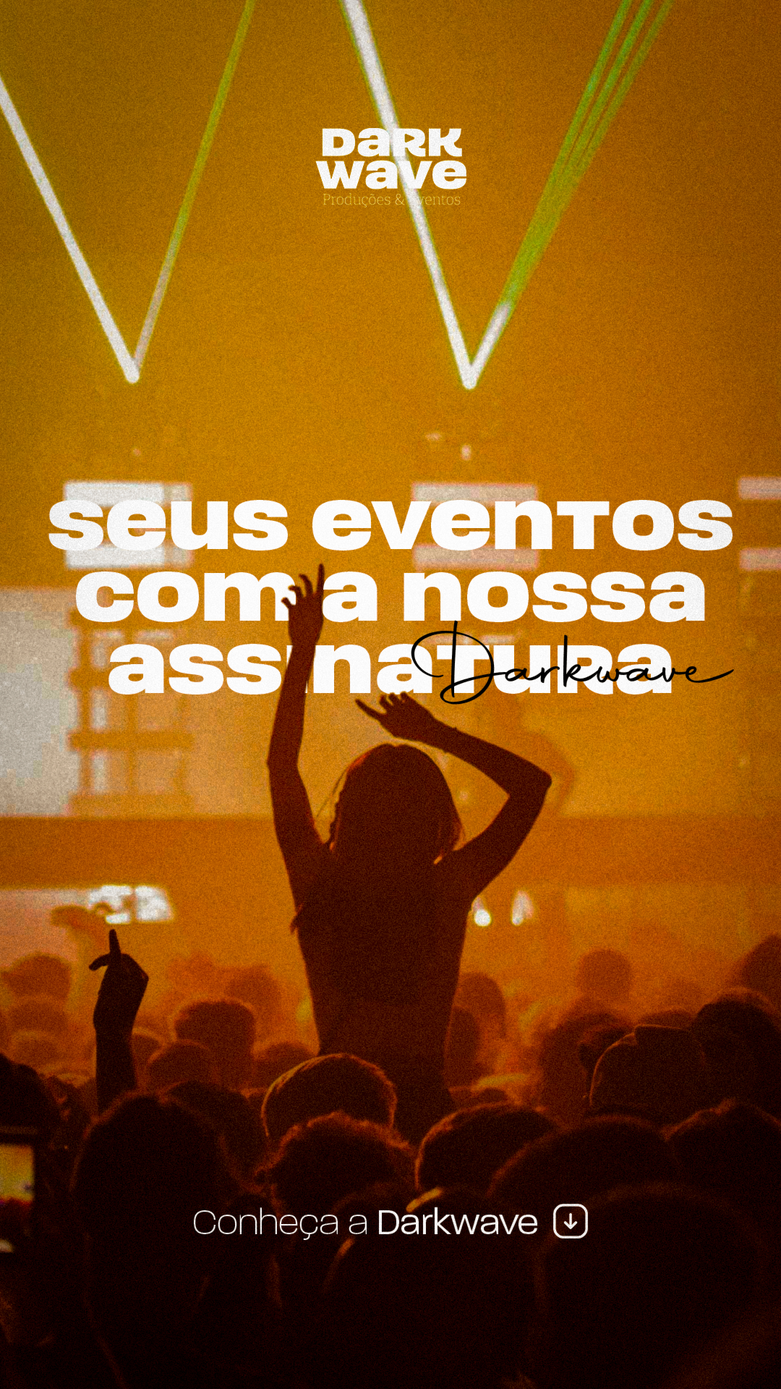
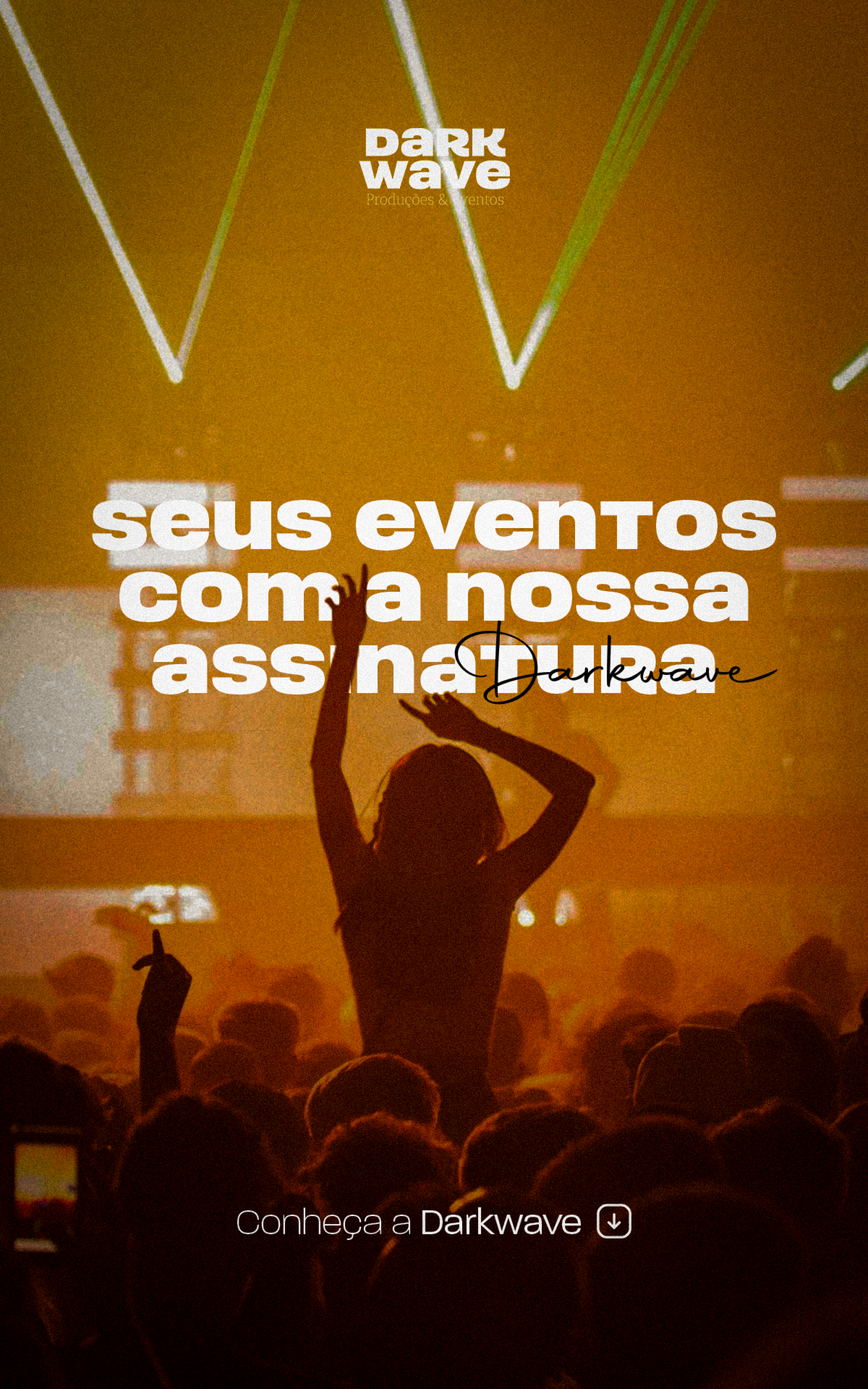
finalizado
Terminei de ajustar todos os conteúdos, afim de conferir como vai ficar no telefone

diff --git a/styles.css b/styles.css
@@ -54,11 +54,14 @@ li {
 }
 
 a {
-  width: 28vw;
+  width: auto;
   align-content: center;
   text-align: left;
 }
 
+.space {
+  margin-right: 10px;
+}
 nav{
   display: flex;
   flex-direction: column;
@@ -68,21 +71,22 @@ a:hover {
   cursor: pointer;
 }
 .nav-break1 {
-  justify-content: space-between;
+  justify-content: center;
   display: flex;
   width: 100%;
-  justify-content: center;
 }
 .nav-break{
-  justify-content:space-evenly;
+  justify-content:center;
   display: flex;
   width: 100%;
 }
+
 .number {
   width: auto;
   font-size: 200px;
   font-weight: 900;
   height: auto;
+  margin-right: 2%;
   font-family: "Paralucent-Bold";
 }
 
@@ -96,11 +100,16 @@ body {
   justify-content: center;
   align-items: center;
   padding: 20px;
+  overflow-x: hidden;
+  margin: 0;
 }
 
 img {
-  margin: 2%;
   justify-items: center;
+}
+
+.contato {
+ margin-right: 40px;
 }
 
 img:hover {
@@ -217,14 +226,11 @@ p {
   }
   .showcase {
     background: url("imagens/showcase-mobile.png") no-repeat center center/cover;
-    position: absolute;
     top: 0;
     margin: 0;
     padding: 0;
+    height: 100%;
     left: 0;
-    width: 100%;
-    height: 100vh;
-    object-fit: cover;
     z-index: 5;
   }
 
@@ -232,24 +238,25 @@ p {
     background-color: rgba(0, 0, 0);
     color: white;
     padding: 50px;
+    margin-bottom: 4%;
     border-radius: 80px;
     text-align: center;
     max-width: 100%;
     width: 100%;
     margin-top: 100vh;
-    height: (100% - 1130px);
+   
   }
-  
+
   .number {
     width: auto;
-    font-size: 400%;
+    font-size: 200%;
     font-weight: 900;
     height: auto;
     font-family: "Paralucent-Bold";
   }
 
   li {
-    font-size: 40%;
+    font-size: 60%;
   }
 
   .about {
@@ -265,7 +272,7 @@ p {
   }
 
   .fade-box {
-    padding: 20px;
+    padding: 10px;
     border-radius: 40px;
     font-size: 18px;
   }
@@ -289,7 +296,7 @@ p {
   }
 
   .box1 h1, .box2 h1, .box3 h1 {
-    font-size: 100%;
+    font-size: 80%;
   }
 
   .box1 h5, .box2 h5 {

diff --git a/index.html b/index.html
@@ -24,14 +24,12 @@
                 <li><a onclick="scrollar(1)">O que é a </br>DarkWave?</a></li>
                 <a class="number" onclick="scrollar(2)">02</a>
                 <li><a onclick="scrollar(2)">Desafio dos Artistas </br>Independentes</a></li>
-            </div>
-            <div class="nav-break">
                 <a class="number" onclick="scrollar(3)">03</a>
                 <li><a onclick="scrollar(3)">Nossa </br>Solução</a></li>
-                <a class="number" onclick="scrollar(4)">04</a>
-                <li><a onclick="scrollar(4)">Resultados </br>Esperados</a></li>
             </div>
             <div class="nav-break1">
+                <a class="number" onclick="scrollar(4)">04</a>
+                <li><a class="space" onclick="scrollar(4)">Resultados </br>Esperados</a></li>
                 <a class="number" onclick="scrollar(5)">05</a>
                 <li><a onclick="scrollar(5)">Como Começar </br>e Contatos</a></li>
             </div>
@@ -190,8 +188,8 @@
                 </br>
                 </br>
 
-                <img onclick="email" src="imagens/email.png">
-                <img onclick="whatsapp" src="imagens/phone.png">
+                <img class="contato" onclick="email" src="imagens/email.png">
+                <img class="contato" onclick="whatsapp" src="imagens/phone.png">
                 </br>
                 </br>
                 <img src="imagens/Som, identidade e essência em cada produção!.png">
